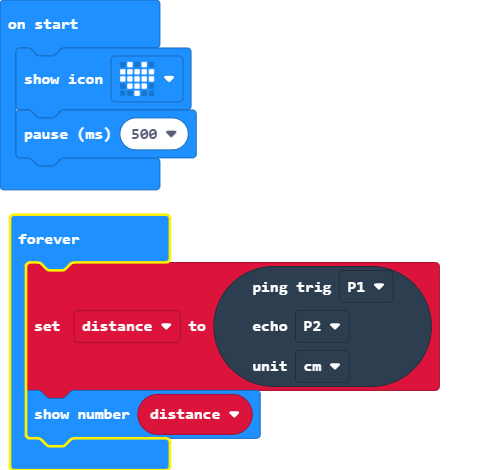
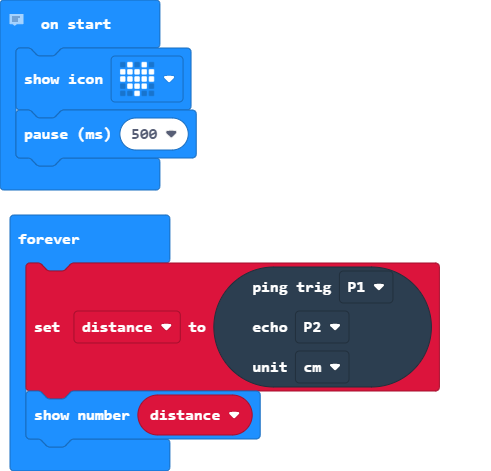
added a comment

diff --git a/main.ts b/main.ts
@@ -1,3 +1,7 @@
+// Created by: Mariam Abugamga
+// Date; oct 2,2020
+// 
+// this program calculates distance
 let distance = 0
 basic.showIcon(IconNames.Heart)
 basic.pause(500)
